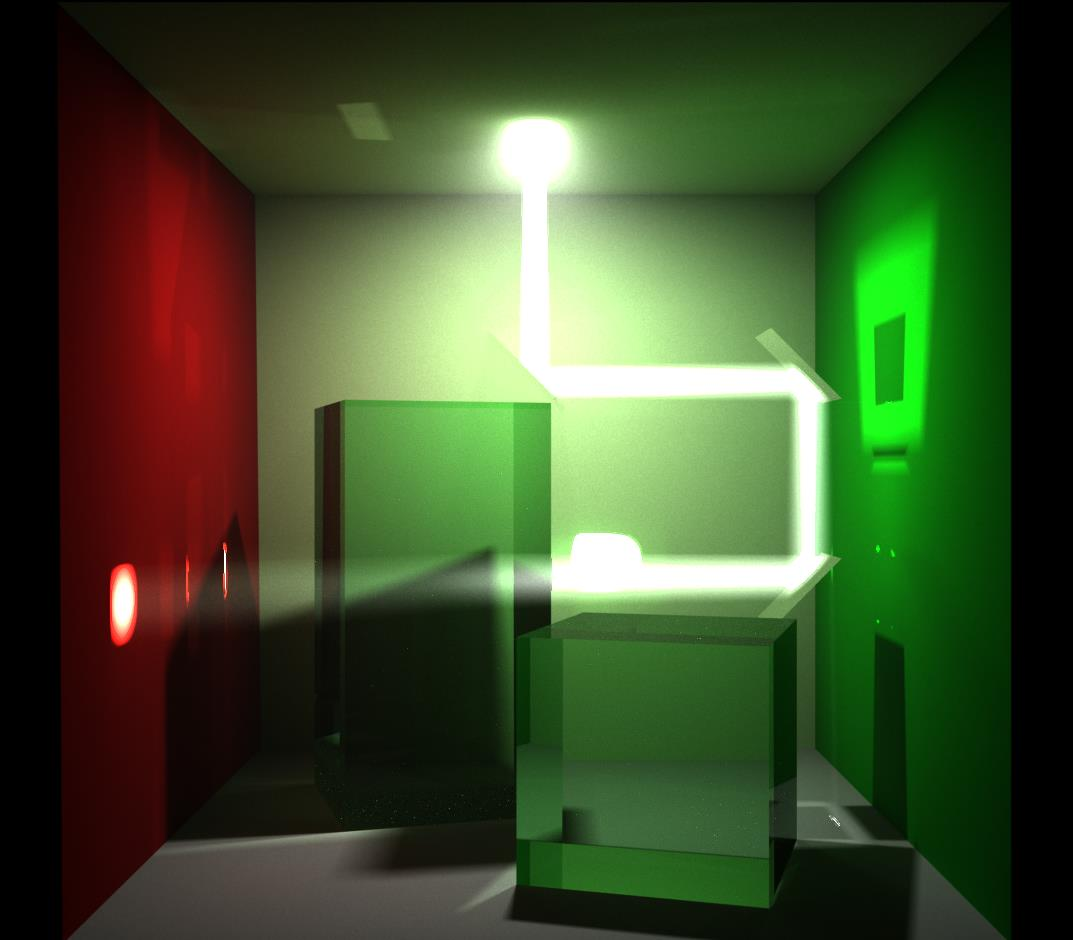
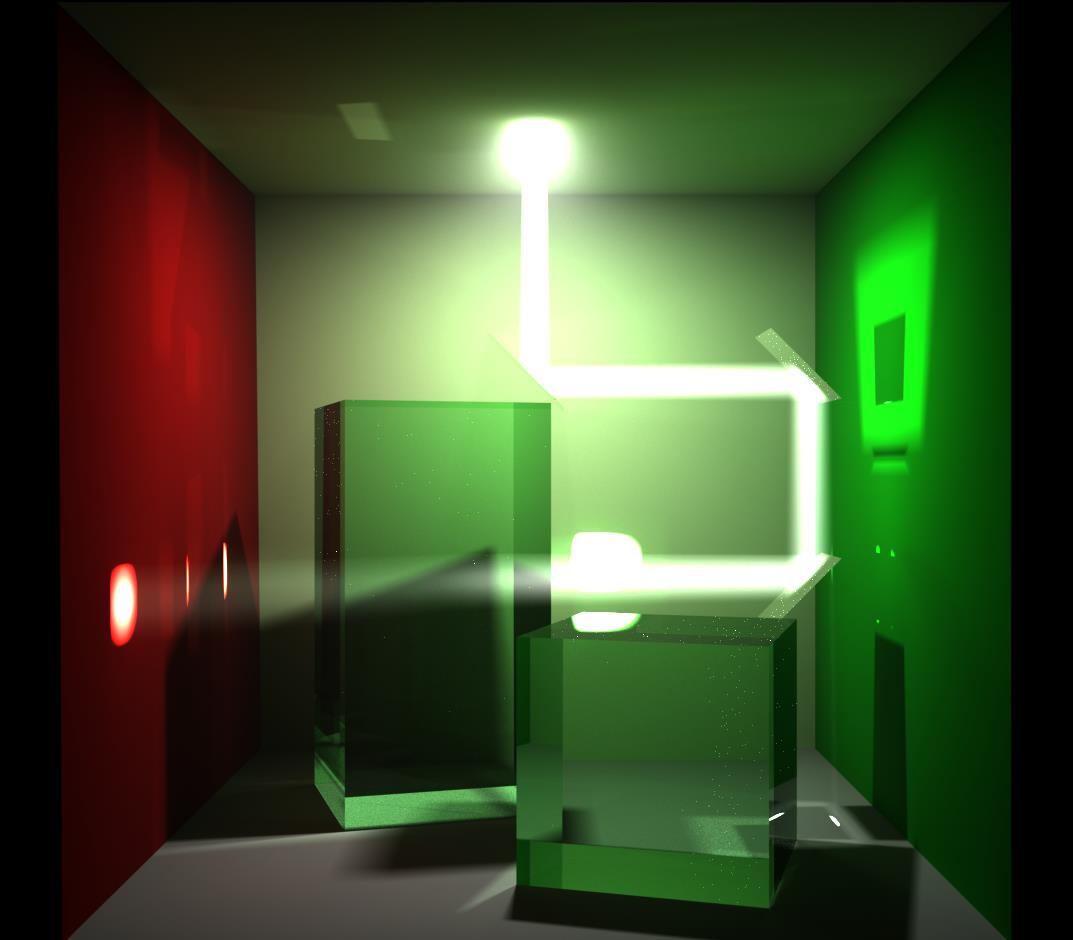
Use VCM instead of BPT for the MirrorBox-Scene

diff --git a/Source/Tools/Tools/SceneEditor/SceneEditor.cs b/Source/Tools/Tools/SceneEditor/SceneEditor.cs
@@ -95,6 +95,7 @@ namespace Tools.Tools.SceneEditor
                 this.graphicPanel.GlobalSettings.PhotonCount = 60000;//100000
                 this.graphicPanel.GlobalSettings.RaytracerRenderMode = RaytracerRenderMode.Frame;
                 this.graphicPanel.GlobalSettings.PhotonmapPixelSettings = PhotonmapDirectPixelSetting.ShowPixelPhotons; //Einstellungen, wenn man Mode=PhotonmapPixel verwendet
+                this.graphicPanel.GlobalSettings.MetropolisBootstrapCount = 100000;
                 //this.graphicPanel.GlobalSettings.MaxRenderTimeInSeconds = 9;
                 //this.graphicPanel.GlobalSettings.RecursionDepth = 3; //3 = Direktes Licht
                 //File.WriteAllText(FilePaths.DataDirectory+"FlipperResult.obj", this.graphicPanel.GetFlippedWavefrontFileFromCurrentSceneData(this.graphicPanel.Width, this.graphicPanel.Height));

diff --git a/Source/Tools/Tools/SceneEditor/Scenes.cs b/Source/Tools/Tools/SceneEditor/Scenes.cs
@@ -535,7 +535,9 @@ namespace Tools.Tools.SceneEditor
 
             graphic.GlobalSettings.BackgroundImage = "#FFFFFF";
             graphic.GlobalSettings.Camera = new Camera(cameraStart, cameraDirection, 38);
-            graphic.Mode = Mode3D.MediaFullBidirectionalPathTracing;
+            graphic.GlobalSettings.SamplingCount = 10000;
+            graphic.GlobalSettings.PhotonCount = 20000;
+            graphic.Mode = Mode3D.MediaVCM;
         }
 
         //RisingSmoke-Cornellbox
